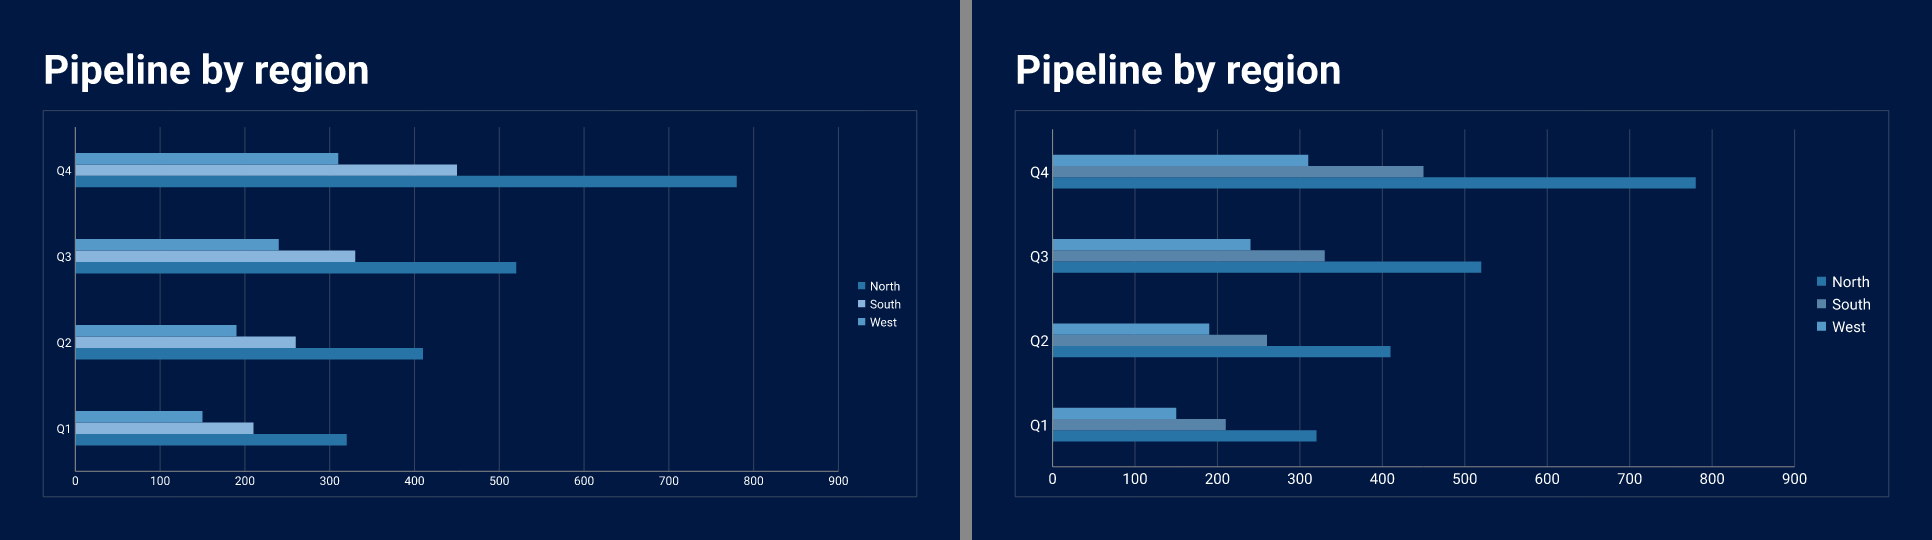
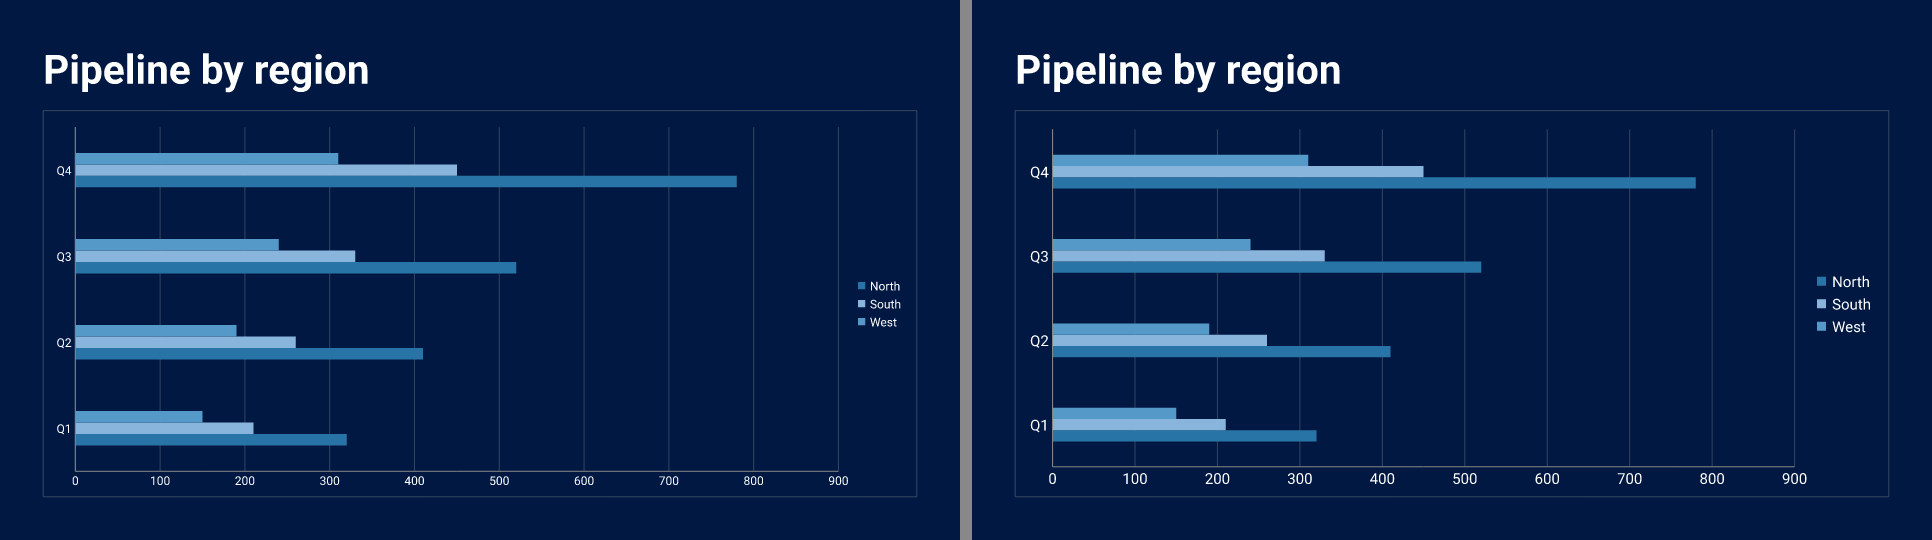
RR-89: chart.colors overrides; re-capture digests for core palette tiers

diff --git a/dist/charts.js b/dist/charts.js
@@ -7,10 +7,11 @@
 import { chartHighlightColors, chartHighlightMarks, chartNumber, chartPaletteForFill, chartSeriesPalette as coreChartSeriesPalette, chartTextSize, formatDataNumber, maxIntervalsFor, niceScale, stackCategoryValues, numberFormatError, resolveChartData, resolveTextStyle, textColorForFill, textWidthMeasurer } from "@openpresentation/opf/composition";
 import { drawAxisTitles, drawBarLabel, drawCenteredLabel, drawPointLabel, drawSliceLabel, labelString, outsideLabelReserve, reportOptionDiagnostics, reserveAxisTitles, resolveOptions } from "./chart-options.js";
 
-// The series colours for a chart panel: core's `chartSeriesPalette` (the deck colour scheme's accents, RR-89, the same list the PPTX
-// export and the validator use) adjusted by core's `chartPaletteForFill` (contrast against the panel without letting two series merge).
-export function chartSeriesPalette(surface, colorScheme) {
-  return chartPaletteForFill(surface, coreChartSeriesPalette(colorScheme));
+// The series colours for a chart panel: core's `chartSeriesPalette` (the deck colour scheme's accents, RR-89, with the chart's own
+// `colors` entries replacing their positions) adjusted by core's `chartPaletteForFill` (contrast against the panel without letting
+// two series merge). The PPTX export and the validator use the same pair, so the preview draws the colours they write.
+export function chartSeriesPalette(surface, colorScheme, colors, context) {
+  return chartPaletteForFill(surface, coreChartSeriesPalette(colorScheme, colors, context));
 }
 
 // FA-14: chart.highlight. Core resolves which series and categories are named (chartHighlightMarks) and the two colours
@@ -210,7 +211,7 @@ function chartContext(item, box, bound, options, svg, { rows, columns, formats, 
     // clear space kept between neighbouring category labels.
     textHeight: fontPx * 1.22,
     labelGap: fontPx * 0.1,
-    colors: chartSeriesPalette(surface, bound.design.colorScheme),
+    colors: chartSeriesPalette(surface, bound.design.colorScheme, item.value?.colors, { roles: bound.design.colors, variables: bound.design.variables }),
     // RR-92: the value axis core composed for a column, bar, line or area chart ({ min, max, majorUnit }); absent for the other types.
     valueAxis: item.chart?.valueAxis,
     gridColor: bound.design.colors.border,

diff --git a/src/charts.js b/src/charts.js
@@ -7,10 +7,11 @@
 import { chartHighlightColors, chartHighlightMarks, chartNumber, chartPaletteForFill, chartSeriesPalette as coreChartSeriesPalette, chartTextSize, formatDataNumber, maxIntervalsFor, niceScale, stackCategoryValues, numberFormatError, resolveChartData, resolveTextStyle, textColorForFill, textWidthMeasurer } from "@openpresentation/opf/composition";
 import { drawAxisTitles, drawBarLabel, drawCenteredLabel, drawPointLabel, drawSliceLabel, labelString, outsideLabelReserve, reportOptionDiagnostics, reserveAxisTitles, resolveOptions } from "./chart-options.js";
 
-// The series colours for a chart panel: core's `chartSeriesPalette` (the deck colour scheme's accents, RR-89, the same list the PPTX
-// export and the validator use) adjusted by core's `chartPaletteForFill` (contrast against the panel without letting two series merge).
-export function chartSeriesPalette(surface, colorScheme) {
-  return chartPaletteForFill(surface, coreChartSeriesPalette(colorScheme));
+// The series colours for a chart panel: core's `chartSeriesPalette` (the deck colour scheme's accents, RR-89, with the chart's own
+// `colors` entries replacing their positions) adjusted by core's `chartPaletteForFill` (contrast against the panel without letting
+// two series merge). The PPTX export and the validator use the same pair, so the preview draws the colours they write.
+export function chartSeriesPalette(surface, colorScheme, colors, context) {
+  return chartPaletteForFill(surface, coreChartSeriesPalette(colorScheme, colors, context));
 }
 
 // FA-14: chart.highlight. Core resolves which series and categories are named (chartHighlightMarks) and the two colours
@@ -210,7 +211,7 @@ function chartContext(item, box, bound, options, svg, { rows, columns, formats, 
     // clear space kept between neighbouring category labels.
     textHeight: fontPx * 1.22,
     labelGap: fontPx * 0.1,
-    colors: chartSeriesPalette(surface, bound.design.colorScheme),
+    colors: chartSeriesPalette(surface, bound.design.colorScheme, item.value?.colors, { roles: bound.design.colors, variables: bound.design.variables }),
     // RR-92: the value axis core composed for a column, bar, line or area chart ({ min, max, majorUnit }); absent for the other types.
     valueAxis: item.chart?.valueAxis,
     gridColor: bound.design.colors.border,

diff --git a/test/golden/notes/RR-89.md b/test/golden/notes/RR-89.md
@@ -1,6 +1,6 @@
 # RR-89, RR-90, RR-92: chart series palette, chart text size and value axis (pending baseline)
 
-Status: the baseline is not regenerated in this pull request. It waits for the core release that carries opf#708 (RR-89),
+Status: the baseline is not regenerated in this pull request. It waits for the core release that carries opf#708 and #716 (RR-89 palette), opf#718 (`chart.colors`),
 opf#710 (RR-92) and the RR-90 chart text size, and then goes through the `regenerate-goldens` workflow (never a local
 candidate). `test/golden.mjs`, `test/golden-gate.mjs` and `test/layout-template-goldens.mjs` fail on this branch until then,
 by design: every moved slide is a chart.
@@ -8,11 +8,11 @@ by design: every moved slide is a chart.
 What moves, measured by rendering the 807 slides of the published core's examples with `main` and with this branch and
 comparing the traced SVG (not PNG hashes, which only the pinned image produces):
 
-- 152 of the 156 slides that draw a chart change; 0 of the 651 other slides change. The four chart slides that do not
+- 151 of the 156 slides that draw a chart change; 0 of the 651 other slides change. The five chart slides that do not
   move already drew at the new size or the floor and use series colours that did not change: two decks whose
   `minFontSize` (17 and 18) sits at or above the chart size (`gallery/industries/airline-disruption-recovery-review.opf.json#6`,
-  `gallery/presentation-types/manager-training-deck.opf.json#6`) and two sheets of small charts at the 16 px floor
-  (`technical/block-composition.opf.json#0`, `technical/chart-type-sampler.opf.json#0`).
+  `gallery/presentation-types/manager-training-deck.opf.json#6`) and sheets of small charts at the 16 px floor
+  (`technical/block-composition.opf.json#0`, `technical/chart-type-sampler.opf.json#0` and `#1`).
 - Chart text: 20 px (15 pt) instead of 14 px floored to 16 px (12 pt), shrunk only for a small chart box (at most 1/18 of
   the box height and 1/30 of its width, whole pixels, never below `minFontSize`). Category labels that no longer fit rotated
   now skip (`test/chart-category-labels.mjs` records the new decisions).
@@ -133,10 +133,11 @@ Changed slides by deck (count of slides):
 - `technical/catalog-overrides.opf.json` (1)
 - `technical/chart-data-sources.opf.json` (1)
 - `technical/chart-highlight.opf.json` (3)
-- `technical/chart-type-sampler.opf.json` (2)
+- `technical/chart-type-sampler.opf.json` (1)
 - `technical/content-payload-matrix.opf.json` (1)
 - `technical/full-feature-tour.opf.json` (2)
 - `technical/promoted-region-grid.opf.json` (1)
 - `technical/rows-chart.opf.json` (1)
 - `technical/slide-design-overrides.opf.json` (1)
+
 Before and after renders: `docs/evidence/rr-89-chart-scheme-palette-text/`.

diff --git a/changes/rr-89-chart-series-scheme-palette.md b/changes/rr-89-chart-series-scheme-palette.md
@@ -1,4 +1,4 @@
 ---
 type: changed
 ---
-RR-89 (output-changing for every chart without highlight): chart series are drawn in core's `chartSeriesPalette` of the deck's resolved colour scheme (`accent1` to `accent6`, then the same six accents tinted 40% toward white), so `design.colorScheme` recolours the series instead of every deck drawing the cool-horizon blues; a deck without a colour scheme of its own keeps the engine default's accents. The palette still goes through core's `chartPaletteForFill` (contrast against the chart panel), and `chart.highlight` colours are unchanged. The renderer's own `CHART_SERIES_COLORS` copy is deleted. Needs `@openpresentation/opf` with RR-89.
+RR-89 (output-changing for every chart without highlight): chart series are drawn in core's `chartSeriesPalette` of the deck's resolved colour scheme (`accent1` to `accent6`, then the same six accents tinted 40% toward white), so `design.colorScheme` recolours the series instead of every deck drawing the cool-horizon blues; a deck without a colour scheme of its own keeps the engine default's accents. The palette still goes through core's `chartPaletteForFill` (contrast against the chart panel), and `chart.highlight` colours are unchanged. `chart.colors` entries (hex, scheme slot, role or `var:` reference) replace the palette colour at their position, before the same adjustment; `chart.highlight` still wins. The renderer's own `CHART_SERIES_COLORS` copy is deleted. Needs `@openpresentation/opf` with RR-89.

diff --git a/docs/evidence/rr-89-chart-scheme-palette-text/README.md b/docs/evidence/rr-89-chart-scheme-palette-text/README.md
@@ -1,6 +1,6 @@
 # RR-89, RR-90, RR-92 evidence: chart series colours, text size and value axis
 
-Each PNG is `main` (left, published core 0.20.5) against this branch (right, core with opf#708 RR-89, opf#710 RR-92 and the
+Each PNG is `main` (left, published core 0.20.5) against this branch (right, core with opf#708 + #716 RR-89, opf#710 RR-92, opf#718 chart.colors and the
 RR-90 chart text size patch), rendered by `toSvg` + `toPng` at scale 0.75 from the two decks beside them.
 
 - `default-2`, `default-5`: a deck without a colour scheme of its own. Chart text goes from 12 pt to 15 pt (14 px floored
